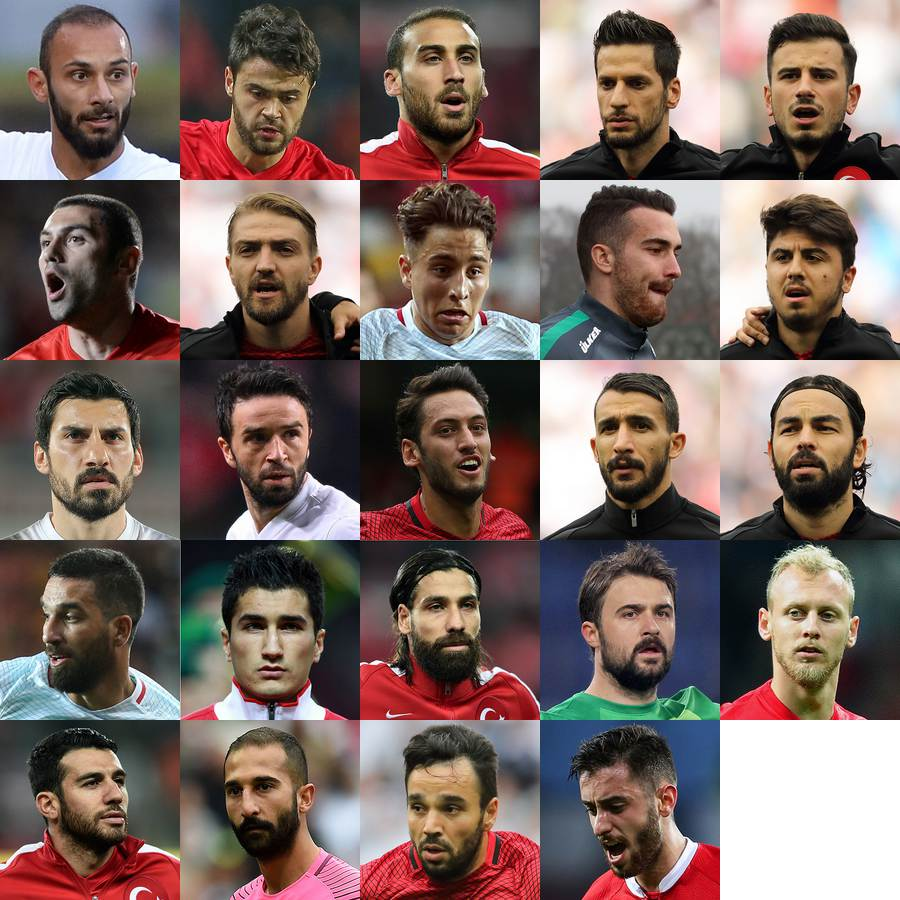
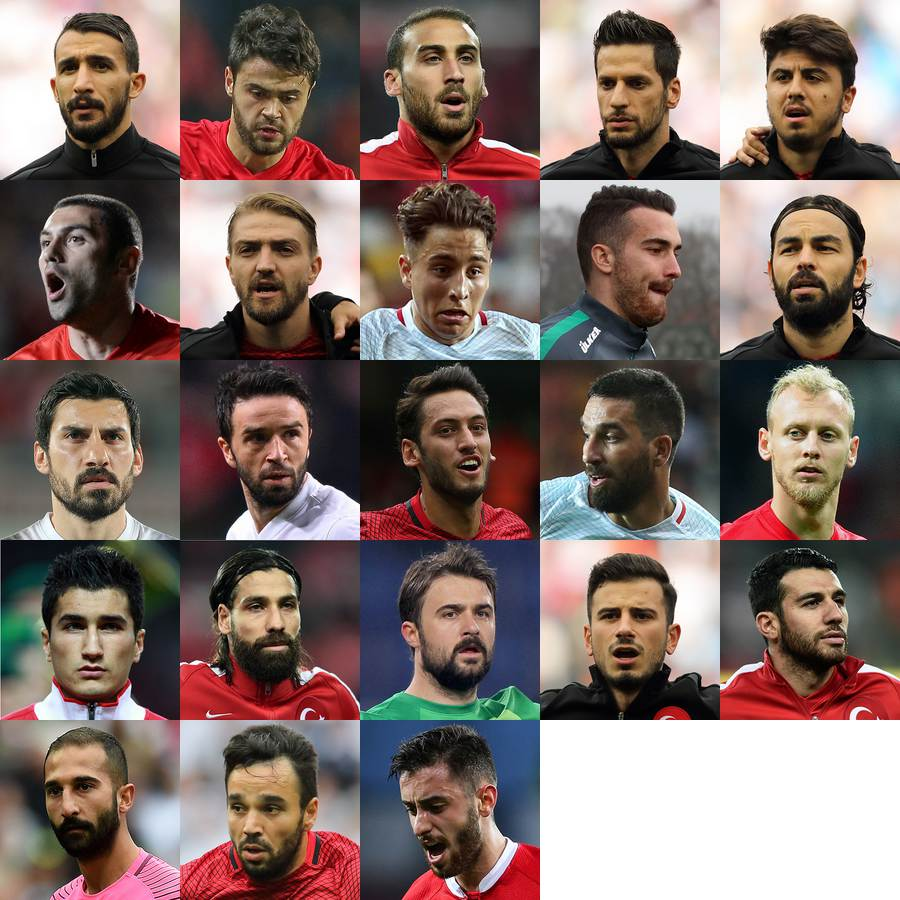
new player names/photos

diff --git a/src/css/teams/Turkey-240.scss b/src/css/teams/Turkey-240.scss
@@ -1,5 +1,5 @@
 [class^='sprite-'], [class*=' sprite-'] { background-image:url('assets/imgs/teams/Turkey-240.jpg'); background-size:600px 600px; width:240px; height:240px; }
-.sprite-mer_Toprak { background-position:0 0; }
+.sprite-Mehmet_Topal { background-position:0 0; }
 .sprite-Ahmet_alk { background-position:-120px 0; }
 .sprite-Burak_Ylmaz { background-position:0 -120px; }
 .sprite-Caner_Erkin { background-position:-120px -120px; }
@@ -10,16 +10,15 @@
 .sprite-Hakan_alhanolu { background-position:-240px -240px; }
 .sprite-Hakan_Kadir_Balta { background-position:-360px 0; }
 .sprite-Harun_Tekin { background-position:-360px -120px; }
-.sprite-Mehmet_Topal { background-position:-360px -240px; }
-.sprite-Arda_Turan { background-position:0 -360px; }
-.sprite-Nuri_ahin { background-position:-120px -360px; }
-.sprite-Olcay_ahan { background-position:-240px -360px; }
-.sprite-Onur_Kivrak { background-position:-360px -360px; }
-.sprite-Ouzhan_zyakup { background-position:-480px 0; }
-.sprite-Ozan_Tufan { background-position:-480px -120px; }
-.sprite-Seluk_nan { background-position:-480px -240px; }
-.sprite-Semih_Kaya { background-position:-480px -360px; }
-.sprite-smail_Kyba { background-position:0 -480px; }
-.sprite-Volkan_Babacan { background-position:-120px -480px; }
-.sprite-Volkan_en { background-position:-240px -480px; }
-.sprite-Yunus_Mall { background-position:-360px -480px; }
+.sprite-Arda_Turan { background-position:-360px -240px; }
+.sprite-Nuri_ahin { background-position:0 -360px; }
+.sprite-Olcay_ahan { background-position:-120px -360px; }
+.sprite-Onur_Kvrak { background-position:-240px -360px; }
+.sprite-Ouzhan_zyakup { background-position:-360px -360px; }
+.sprite-Ozan_Tufan { background-position:-480px 0; }
+.sprite-Seluk_nan { background-position:-480px -120px; }
+.sprite-Semih_Kaya { background-position:-480px -240px; }
+.sprite-smail_Kyba { background-position:-480px -360px; }
+.sprite-Volkan_Babacan { background-position:0 -480px; }
+.sprite-Volkan_en { background-position:-120px -480px; }
+.sprite-Yunus_Mall { background-position:-240px -480px; }

diff --git a/src/css/teams/Turkey-260.scss b/src/css/teams/Turkey-260.scss
@@ -1,5 +1,5 @@
 [class^='sprite-'], [class*=' sprite-'] { background-image:url('assets/imgs/teams/Turkey-260.jpg'); background-size:650px 650px; width:260px; height:260px; }
-.sprite-mer_Toprak { background-position:0 0; }
+.sprite-Mehmet_Topal { background-position:0 0; }
 .sprite-Ahmet_alk { background-position:-130px 0; }
 .sprite-Burak_Ylmaz { background-position:0 -130px; }
 .sprite-Caner_Erkin { background-position:-130px -130px; }
@@ -10,16 +10,15 @@
 .sprite-Hakan_alhanolu { background-position:-260px -260px; }
 .sprite-Hakan_Kadir_Balta { background-position:-390px 0; }
 .sprite-Harun_Tekin { background-position:-390px -130px; }
-.sprite-Mehmet_Topal { background-position:-390px -260px; }
-.sprite-Arda_Turan { background-position:0 -390px; }
-.sprite-Nuri_ahin { background-position:-130px -390px; }
-.sprite-Olcay_ahan { background-position:-260px -390px; }
-.sprite-Onur_Kivrak { background-position:-390px -390px; }
-.sprite-Ouzhan_zyakup { background-position:-520px 0; }
-.sprite-Ozan_Tufan { background-position:-520px -130px; }
-.sprite-Seluk_nan { background-position:-520px -260px; }
-.sprite-Semih_Kaya { background-position:-520px -390px; }
-.sprite-smail_Kyba { background-position:0 -520px; }
-.sprite-Volkan_Babacan { background-position:-130px -520px; }
-.sprite-Volkan_en { background-position:-260px -520px; }
-.sprite-Yunus_Mall { background-position:-390px -520px; }
+.sprite-Arda_Turan { background-position:-390px -260px; }
+.sprite-Nuri_ahin { background-position:0 -390px; }
+.sprite-Olcay_ahan { background-position:-130px -390px; }
+.sprite-Onur_Kvrak { background-position:-260px -390px; }
+.sprite-Ouzhan_zyakup { background-position:-390px -390px; }
+.sprite-Ozan_Tufan { background-position:-520px 0; }
+.sprite-Seluk_nan { background-position:-520px -130px; }
+.sprite-Semih_Kaya { background-position:-520px -260px; }
+.sprite-smail_Kyba { background-position:-520px -390px; }
+.sprite-Volkan_Babacan { background-position:0 -520px; }
+.sprite-Volkan_en { background-position:-130px -520px; }
+.sprite-Yunus_Mall { background-position:-260px -520px; }

diff --git a/src/css/teams/Turkey-180.scss b/src/css/teams/Turkey-180.scss
@@ -1,5 +1,5 @@
 [class^='sprite-'], [class*=' sprite-'] { background-image:url('assets/imgs/teams/Turkey-180.jpg'); background-size:450px 450px; width:180px; height:180px; }
-.sprite-mer_Toprak { background-position:0 0; }
+.sprite-Mehmet_Topal { background-position:0 0; }
 .sprite-Ahmet_alk { background-position:-90px 0; }
 .sprite-Burak_Ylmaz { background-position:0 -90px; }
 .sprite-Caner_Erkin { background-position:-90px -90px; }
@@ -10,16 +10,15 @@
 .sprite-Hakan_alhanolu { background-position:-180px -180px; }
 .sprite-Hakan_Kadir_Balta { background-position:-270px 0; }
 .sprite-Harun_Tekin { background-position:-270px -90px; }
-.sprite-Mehmet_Topal { background-position:-270px -180px; }
-.sprite-Arda_Turan { background-position:0 -270px; }
-.sprite-Nuri_ahin { background-position:-90px -270px; }
-.sprite-Olcay_ahan { background-position:-180px -270px; }
-.sprite-Onur_Kivrak { background-position:-270px -270px; }
-.sprite-Ouzhan_zyakup { background-position:-360px 0; }
-.sprite-Ozan_Tufan { background-position:-360px -90px; }
-.sprite-Seluk_nan { background-position:-360px -180px; }
-.sprite-Semih_Kaya { background-position:-360px -270px; }
-.sprite-smail_Kyba { background-position:0 -360px; }
-.sprite-Volkan_Babacan { background-position:-90px -360px; }
-.sprite-Volkan_en { background-position:-180px -360px; }
-.sprite-Yunus_Mall { background-position:-270px -360px; }
+.sprite-Arda_Turan { background-position:-270px -180px; }
+.sprite-Nuri_ahin { background-position:0 -270px; }
+.sprite-Olcay_ahan { background-position:-90px -270px; }
+.sprite-Onur_Kvrak { background-position:-180px -270px; }
+.sprite-Ouzhan_zyakup { background-position:-270px -270px; }
+.sprite-Ozan_Tufan { background-position:-360px 0; }
+.sprite-Seluk_nan { background-position:-360px -90px; }
+.sprite-Semih_Kaya { background-position:-360px -180px; }
+.sprite-smail_Kyba { background-position:-360px -270px; }
+.sprite-Volkan_Babacan { background-position:0 -360px; }
+.sprite-Volkan_en { background-position:-90px -360px; }
+.sprite-Yunus_Mall { background-position:-180px -360px; }

diff --git a/src/css/teams/Poland-240.scss b/src/css/teams/Poland-240.scss
@@ -1,12 +1,12 @@
 [class^='sprite-'], [class*=' sprite-'] { background-image:url('assets/imgs/teams/Poland-240.jpg'); background-size:600px 600px; width:240px; height:240px; }
 .sprite-Karol_Linetty { background-position:0 0; }
 .sprite-Arkadiusz_Milik { background-position:-120px 0; }
-.sprite-Artur_Jedrzejczyk { background-position:0 -120px; }
+.sprite-Artur_Jdrzejczyk { background-position:0 -120px; }
 .sprite-Bartosz_Kapustka { background-position:-120px -120px; }
 .sprite-Bartosz_Salamon { background-position:-240px 0; }
-.sprite-Filip_Starzynski { background-position:-240px -120px; }
+.sprite-Filip_Starzyski { background-position:-240px -120px; }
 .sprite-Grzegorz_Krychowiak { background-position:0 -240px; }
-.sprite-Jakub_Blaszczykowski { background-position:-120px -240px; }
+.sprite-Jakub_Baszczykowski { background-position:-120px -240px; }
 .sprite-Jakub_Wawrzyniak { background-position:-240px -240px; }
 .sprite-Kamil_Glik { background-position:-360px 0; }
 .sprite-Kamil_Grosicki { background-position:-360px -120px; }
@@ -14,11 +14,11 @@
 .sprite-Krzysztof_Maczynski { background-position:0 -360px; }
 .sprite-Lukasz_Fabianski { background-position:-120px -360px; }
 .sprite-Lukasz_Piszczek { background-position:-240px -360px; }
-.sprite-Mariusz_Stepinski { background-position:-360px -360px; }
-.sprite-Michal_Pazdan { background-position:-480px 0; }
-.sprite-Piotr_Zielinski { background-position:-480px -120px; }
+.sprite-Mariusz_Stpiski { background-position:-360px -360px; }
+.sprite-Micha_Pazdan { background-position:-480px 0; }
+.sprite-Piotr_Zieliski { background-position:-480px -120px; }
 .sprite-Robert_Lewandowski { background-position:-480px -240px; }
-.sprite-Slawomir_Peszko { background-position:-480px -360px; }
+.sprite-Sawomir_Peszko { background-position:-480px -360px; }
 .sprite-Thiago_Cionek { background-position:0 -480px; }
 .sprite-Tomasz_Jodlowiec { background-position:-120px -480px; }
-.sprite-Wojciech_Szczesny { background-position:-240px -480px; }
+.sprite-Wojciech_Szczsny { background-position:-240px -480px; }

diff --git a/src/css/teams/Poland-260.scss b/src/css/teams/Poland-260.scss
@@ -1,12 +1,12 @@
 [class^='sprite-'], [class*=' sprite-'] { background-image:url('assets/imgs/teams/Poland-260.jpg'); background-size:650px 650px; width:260px; height:260px; }
 .sprite-Karol_Linetty { background-position:0 0; }
 .sprite-Arkadiusz_Milik { background-position:-130px 0; }
-.sprite-Artur_Jedrzejczyk { background-position:0 -130px; }
+.sprite-Artur_Jdrzejczyk { background-position:0 -130px; }
 .sprite-Bartosz_Kapustka { background-position:-130px -130px; }
 .sprite-Bartosz_Salamon { background-position:-260px 0; }
-.sprite-Filip_Starzynski { background-position:-260px -130px; }
+.sprite-Filip_Starzyski { background-position:-260px -130px; }
 .sprite-Grzegorz_Krychowiak { background-position:0 -260px; }
-.sprite-Jakub_Blaszczykowski { background-position:-130px -260px; }
+.sprite-Jakub_Baszczykowski { background-position:-130px -260px; }
 .sprite-Jakub_Wawrzyniak { background-position:-260px -260px; }
 .sprite-Kamil_Glik { background-position:-390px 0; }
 .sprite-Kamil_Grosicki { background-position:-390px -130px; }
@@ -14,11 +14,11 @@
 .sprite-Krzysztof_Maczynski { background-position:0 -390px; }
 .sprite-Lukasz_Fabianski { background-position:-130px -390px; }
 .sprite-Lukasz_Piszczek { background-position:-260px -390px; }
-.sprite-Mariusz_Stepinski { background-position:-390px -390px; }
-.sprite-Michal_Pazdan { background-position:-520px 0; }
-.sprite-Piotr_Zielinski { background-position:-520px -130px; }
+.sprite-Mariusz_Stpiski { background-position:-390px -390px; }
+.sprite-Micha_Pazdan { background-position:-520px 0; }
+.sprite-Piotr_Zieliski { background-position:-520px -130px; }
 .sprite-Robert_Lewandowski { background-position:-520px -260px; }
-.sprite-Slawomir_Peszko { background-position:-520px -390px; }
+.sprite-Sawomir_Peszko { background-position:-520px -390px; }
 .sprite-Thiago_Cionek { background-position:0 -520px; }
 .sprite-Tomasz_Jodlowiec { background-position:-130px -520px; }
-.sprite-Wojciech_Szczesny { background-position:-260px -520px; }
+.sprite-Wojciech_Szczsny { background-position:-260px -520px; }

diff --git a/src/css/teams/Poland-180.scss b/src/css/teams/Poland-180.scss
@@ -1,12 +1,12 @@
 [class^='sprite-'], [class*=' sprite-'] { background-image:url('assets/imgs/teams/Poland-180.jpg'); background-size:450px 450px; width:180px; height:180px; }
 .sprite-Karol_Linetty { background-position:0 0; }
 .sprite-Arkadiusz_Milik { background-position:-90px 0; }
-.sprite-Artur_Jedrzejczyk { background-position:0 -90px; }
+.sprite-Artur_Jdrzejczyk { background-position:0 -90px; }
 .sprite-Bartosz_Kapustka { background-position:-90px -90px; }
 .sprite-Bartosz_Salamon { background-position:-180px 0; }
-.sprite-Filip_Starzynski { background-position:-180px -90px; }
+.sprite-Filip_Starzyski { background-position:-180px -90px; }
 .sprite-Grzegorz_Krychowiak { background-position:0 -180px; }
-.sprite-Jakub_Blaszczykowski { background-position:-90px -180px; }
+.sprite-Jakub_Baszczykowski { background-position:-90px -180px; }
 .sprite-Jakub_Wawrzyniak { background-position:-180px -180px; }
 .sprite-Kamil_Glik { background-position:-270px 0; }
 .sprite-Kamil_Grosicki { background-position:-270px -90px; }
@@ -14,11 +14,11 @@
 .sprite-Krzysztof_Maczynski { background-position:0 -270px; }
 .sprite-Lukasz_Fabianski { background-position:-90px -270px; }
 .sprite-Lukasz_Piszczek { background-position:-180px -270px; }
-.sprite-Mariusz_Stepinski { background-position:-270px -270px; }
-.sprite-Michal_Pazdan { background-position:-360px 0; }
-.sprite-Piotr_Zielinski { background-position:-360px -90px; }
+.sprite-Mariusz_Stpiski { background-position:-270px -270px; }
+.sprite-Micha_Pazdan { background-position:-360px 0; }
+.sprite-Piotr_Zieliski { background-position:-360px -90px; }
 .sprite-Robert_Lewandowski { background-position:-360px -180px; }
-.sprite-Slawomir_Peszko { background-position:-360px -270px; }
+.sprite-Sawomir_Peszko { background-position:-360px -270px; }
 .sprite-Thiago_Cionek { background-position:0 -360px; }
 .sprite-Tomasz_Jodlowiec { background-position:-90px -360px; }
-.sprite-Wojciech_Szczesny { background-position:-180px -360px; }
+.sprite-Wojciech_Szczsny { background-position:-180px -360px; }

diff --git a/src/css/teams/Ukraine-240.scss b/src/css/teams/Ukraine-240.scss
@@ -1,15 +1,15 @@
 [class^='sprite-'], [class*=' sprite-'] { background-image:url('assets/imgs/teams/Ukraine-240.jpg'); background-size:600px 600px; width:240px; height:240px; }
-.sprite-Pylyp_Budkivskyi { background-position:0 0; }
+.sprite-Pylyp_Budkivskiy { background-position:0 0; }
 .sprite-Anatoliy_Tymoshchuk { background-position:-120px 0; }
 .sprite-Andriy_Yarmolenko { background-position:0 -120px; }
-.sprite-Artem_Fedetskyi { background-position:-120px -120px; }
+.sprite-Artem_Fedetskiy { background-position:-120px -120px; }
 .sprite-Bohdan_Butko { background-position:-240px 0; }
 .sprite-Denys_Boyko { background-position:-240px -120px; }
-.sprite-Denys_Harmash { background-position:0 -240px; }
+.sprite-Denys_Garmash { background-position:0 -240px; }
 .sprite-Mykyta_Shevchenko { background-position:-120px -240px; }
-.sprite-Oleksandr_Karavayev { background-position:-240px -240px; }
-.sprite-Oleksandr_Kucher { background-position:-360px 0; }
-.sprite-Oleksandr_Zinchenko { background-position:-360px -120px; }
+.sprite-Olexandr_Karavayev { background-position:-240px -240px; }
+.sprite-Olexandr_Kucher { background-position:-360px 0; }
+.sprite-Olexandr_Zinchenko { background-position:-360px -120px; }
 .sprite-Andriy_Pyatov { background-position:-360px -240px; }
 .sprite-Roman_Zozulya { background-position:0 -360px; }
 .sprite-Ruslan_Rotan { background-position:-120px -360px; }
@@ -18,7 +18,7 @@
 .sprite-Taras_Stepanenko { background-position:-480px 0; }
 .sprite-Viktor_Kovalenko { background-position:-480px -120px; }
 .sprite-Vyacheslav_Shevchuk { background-position:-480px -240px; }
-.sprite-Yaroslav_Rakitskyi { background-position:-480px -360px; }
+.sprite-Yaroslav_Rakitskiy { background-position:-480px -360px; }
 .sprite-Yevhen_Khacheridi { background-position:0 -480px; }
 .sprite-Yevhen_Konoplyanka { background-position:-120px -480px; }
 .sprite-Yevhen_Seleznyov { background-position:-240px -480px; }

diff --git a/src/css/teams/Ukraine-260.scss b/src/css/teams/Ukraine-260.scss
@@ -1,15 +1,15 @@
 [class^='sprite-'], [class*=' sprite-'] { background-image:url('assets/imgs/teams/Ukraine-260.jpg'); background-size:650px 650px; width:260px; height:260px; }
-.sprite-Pylyp_Budkivskyi { background-position:0 0; }
+.sprite-Pylyp_Budkivskiy { background-position:0 0; }
 .sprite-Anatoliy_Tymoshchuk { background-position:-130px 0; }
 .sprite-Andriy_Yarmolenko { background-position:0 -130px; }
-.sprite-Artem_Fedetskyi { background-position:-130px -130px; }
+.sprite-Artem_Fedetskiy { background-position:-130px -130px; }
 .sprite-Bohdan_Butko { background-position:-260px 0; }
 .sprite-Denys_Boyko { background-position:-260px -130px; }
-.sprite-Denys_Harmash { background-position:0 -260px; }
+.sprite-Denys_Garmash { background-position:0 -260px; }
 .sprite-Mykyta_Shevchenko { background-position:-130px -260px; }
-.sprite-Oleksandr_Karavayev { background-position:-260px -260px; }
-.sprite-Oleksandr_Kucher { background-position:-390px 0; }
-.sprite-Oleksandr_Zinchenko { background-position:-390px -130px; }
+.sprite-Olexandr_Karavayev { background-position:-260px -260px; }
+.sprite-Olexandr_Kucher { background-position:-390px 0; }
+.sprite-Olexandr_Zinchenko { background-position:-390px -130px; }
 .sprite-Andriy_Pyatov { background-position:-390px -260px; }
 .sprite-Roman_Zozulya { background-position:0 -390px; }
 .sprite-Ruslan_Rotan { background-position:-130px -390px; }
@@ -18,7 +18,7 @@
 .sprite-Taras_Stepanenko { background-position:-520px 0; }
 .sprite-Viktor_Kovalenko { background-position:-520px -130px; }
 .sprite-Vyacheslav_Shevchuk { background-position:-520px -260px; }
-.sprite-Yaroslav_Rakitskyi { background-position:-520px -390px; }
+.sprite-Yaroslav_Rakitskiy { background-position:-520px -390px; }
 .sprite-Yevhen_Khacheridi { background-position:0 -520px; }
 .sprite-Yevhen_Konoplyanka { background-position:-130px -520px; }
 .sprite-Yevhen_Seleznyov { background-position:-260px -520px; }

diff --git a/src/css/teams/Ukraine-180.scss b/src/css/teams/Ukraine-180.scss
@@ -1,15 +1,15 @@
 [class^='sprite-'], [class*=' sprite-'] { background-image:url('assets/imgs/teams/Ukraine-180.jpg'); background-size:450px 450px; width:180px; height:180px; }
-.sprite-Pylyp_Budkivskyi { background-position:0 0; }
+.sprite-Pylyp_Budkivskiy { background-position:0 0; }
 .sprite-Anatoliy_Tymoshchuk { background-position:-90px 0; }
 .sprite-Andriy_Yarmolenko { background-position:0 -90px; }
-.sprite-Artem_Fedetskyi { background-position:-90px -90px; }
+.sprite-Artem_Fedetskiy { background-position:-90px -90px; }
 .sprite-Bohdan_Butko { background-position:-180px 0; }
 .sprite-Denys_Boyko { background-position:-180px -90px; }
-.sprite-Denys_Harmash { background-position:0 -180px; }
+.sprite-Denys_Garmash { background-position:0 -180px; }
 .sprite-Mykyta_Shevchenko { background-position:-90px -180px; }
-.sprite-Oleksandr_Karavayev { background-position:-180px -180px; }
-.sprite-Oleksandr_Kucher { background-position:-270px 0; }
-.sprite-Oleksandr_Zinchenko { background-position:-270px -90px; }
+.sprite-Olexandr_Karavayev { background-position:-180px -180px; }
+.sprite-Olexandr_Kucher { background-position:-270px 0; }
+.sprite-Olexandr_Zinchenko { background-position:-270px -90px; }
 .sprite-Andriy_Pyatov { background-position:-270px -180px; }
 .sprite-Roman_Zozulya { background-position:0 -270px; }
 .sprite-Ruslan_Rotan { background-position:-90px -270px; }
@@ -18,7 +18,7 @@
 .sprite-Taras_Stepanenko { background-position:-360px 0; }
 .sprite-Viktor_Kovalenko { background-position:-360px -90px; }
 .sprite-Vyacheslav_Shevchuk { background-position:-360px -180px; }
-.sprite-Yaroslav_Rakitskyi { background-position:-360px -270px; }
+.sprite-Yaroslav_Rakitskiy { background-position:-360px -270px; }
 .sprite-Yevhen_Khacheridi { background-position:0 -360px; }
 .sprite-Yevhen_Konoplyanka { background-position:-90px -360px; }
 .sprite-Yevhen_Seleznyov { background-position:-180px -360px; }

diff --git a/sprite-maker/sprite-maker.js b/sprite-maker/sprite-maker.js
@@ -37,13 +37,13 @@ var team_data = {
 	// 'Spain': { 'key' : '14dG-Or6_BhOJQBPcgzQktd6T0w1m93VPYmCEjr-FqMU'},
 	// 'Italy': { 'key' : '1UkRPDfrRNOkyIazXFWERCchz9pU1hu7g7wmTRjywBMM'},
 	// 'Slovakia': { 'key' : '1mV-s921mm6J4ZYRWRLccuKbZTXIUGePE6T--eY_kAQA'},
-	'Russia': { 'key' : '1dX0AiX3fwQbKrq4KNGCK44ek_g-cUgPao1O_UQJ6e5Y'},
+	// 'Russia': { 'key' : '1dX0AiX3fwQbKrq4KNGCK44ek_g-cUgPao1O_UQJ6e5Y'},
 	// 'Romania': { 'key' : '18oqBD3hE61x-7T_UkNMytIK12vDPSeeVYjm5e7afgqM'},
-	// 'Turkey': { 'key' : '1T976zQpp_kp4wCtZOCw8vDe8l5GQBJDRARaWcFGmFb4'}, //not finished
+	// 'Turkey': { 'key' : '1T976zQpp_kp4wCtZOCw8vDe8l5GQBJDRARaWcFGmFb4'}, 
 	// 'Switzerland': { 'key' : '1ff7gCcNTzEdAbFrFsCIBECneskzX-xjjU8ZpsEhJsj8'},
 	// 'Albania': { 'key' : '1UPpqsr7WEwnL7sKX3sT2CoJqVAj_JN-M0UZMJpp85-g'},
 	// 'Sweden': { 'key' : '1Fl2BMqcD70ArTn9BCA0i-DTs4kGePKYY9SXcDhcFdcI'}, 
-	// 'Wales': { 'key' : '1o8MdeEpwI1NQsk7rgVx6qQDhjhjt4foxK1c--tB3DoU'},
+	'Wales': { 'key' : '1o8MdeEpwI1NQsk7rgVx6qQDhjhjt4foxK1c--tB3DoU'},
 	// 'France': { 'key' : '1KAJtvbQhvsvZ2ssIY2_7qiLuOYSmFCJ1E_1eQ0ETLas'},
 	// 'England': { 'key' : '1Zsw-NAT-8xtXSQ8t-X3eyisqJPv4G-qFFHvmZ1ej0fw'}	
 }

diff --git a/src/css/teams/Austria-240.scss b/src/css/teams/Austria-240.scss
@@ -12,7 +12,7 @@
 .sprite-Lukas_Hinterseer { background-position:-360px -120px; }
 .sprite-Alessandro_Schpf { background-position:-360px -240px; }
 .sprite-Marcel_Sabitzer { background-position:0 -360px; }
-.sprite-Marko_Arnautovic { background-position:-120px -360px; }
+.sprite-Marko_Arnautovi { background-position:-120px -360px; }
 .sprite-Markus_Suttner { background-position:-240px -360px; }
 .sprite-Martin_Harnik { background-position:-360px -360px; }
 .sprite-Martin_Hinteregger { background-position:-480px 0; }
@@ -21,4 +21,4 @@
 .sprite-Rubin_Okotie { background-position:-480px -360px; }
 .sprite-Sebastian_Prdl { background-position:0 -480px; }
 .sprite-Stefan_Ilsanker { background-position:-120px -480px; }
-.sprite-Zlatko_Junuzovic { background-position:-240px -480px; }
+.sprite-Zlatko_Junuzovi { background-position:-240px -480px; }

diff --git a/src/css/teams/Austria-260.scss b/src/css/teams/Austria-260.scss
@@ -12,7 +12,7 @@
 .sprite-Lukas_Hinterseer { background-position:-390px -130px; }
 .sprite-Alessandro_Schpf { background-position:-390px -260px; }
 .sprite-Marcel_Sabitzer { background-position:0 -390px; }
-.sprite-Marko_Arnautovic { background-position:-130px -390px; }
+.sprite-Marko_Arnautovi { background-position:-130px -390px; }
 .sprite-Markus_Suttner { background-position:-260px -390px; }
 .sprite-Martin_Harnik { background-position:-390px -390px; }
 .sprite-Martin_Hinteregger { background-position:-520px 0; }
@@ -21,4 +21,4 @@
 .sprite-Rubin_Okotie { background-position:-520px -390px; }
 .sprite-Sebastian_Prdl { background-position:0 -520px; }
 .sprite-Stefan_Ilsanker { background-position:-130px -520px; }
-.sprite-Zlatko_Junuzovic { background-position:-260px -520px; }
+.sprite-Zlatko_Junuzovi { background-position:-260px -520px; }
